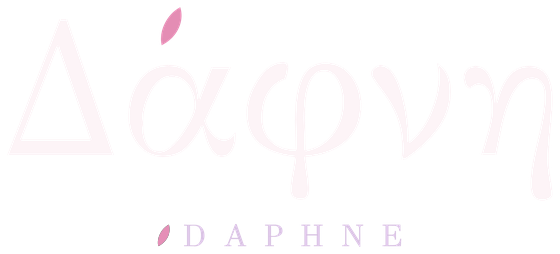
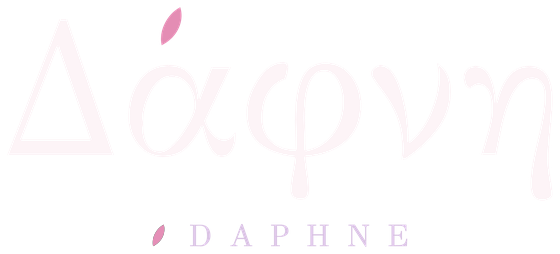
[DOC] Wordmark petal gap: proportional to the letter gaps, not a fixed em
Description:
The petal-to-DAPHNE gap was a fixed 0.43em. The README artwork tracks its
letters much wider than MIKU, so at 0.43em the petal sat closer to D than
the letters sit to each other, the opposite of MIKU.

Solution:
- Define the gap as petal-to-D ink = 1.30 x the mean ink gap between
  DAPHNE's letters (MIKU's 0.43em to the text box is 0.476em to D's ink,
  over a 0.366em mean letter gap). MIKU's CSS is unchanged.
- README wordmarks: everything measured from the artwork, no em; gap
  25.9px (19.96px x 1.30), petal 11.6 x 21.5px, petal + DAPHNE ink
  centred at x 280 (DAPHNE moved 19px).

Note:
Only the README images and the spec change.

Claude-Session: https://claude.ai/code/session_01RaSJHLGsG56MgkYENuf3Kn

Changed region(s): [[0.3339, 0.8819, 0.7286, 0.9921], [0.2732, 0.8819, 0.3036, 0.9646]]

diff --git a/doc/字標與icon規格.md b/doc/字標與icon規格.md
@@ -115,7 +115,9 @@ L351.9 -760.2Z
 | 字距 | **0.32em**（尾端以 `margin-right: −0.32em` 抵消，置中時不偏） |
 | 行高 | 1 |
 | 花瓣 | 同一個花瓣（形狀與 26.1° 同 icon），**高 0.692em**（Georgia 大寫高度）、**寬 0.374em**（花瓣本身的寬高比） |
-| 花瓣與 DAPHNE 間距 | 0.43em |
+| 花瓣與 DAPHNE 間距 | **花瓣到 D 墨跡 = DAPHNE 字母之間平均墨跡間距 × 1.30**（等比例，不用固定 em）。MIKU 以 CSS 寫成 `margin-right: 0.43em`（量到文字框），換算到 D 墨跡為 0.476em，字母平均間距 0.366em，比值 1.30 |
+
+間距跟著字母間距走：字距不同的字標（例如 README 原圖字距較寬）花瓣與字母的相對鬆緊一樣，花瓣永遠比字母之間鬆。
 
 花瓣高度對齊大寫字母高度，沒有照 icon 的比例縮小：照 icon 比例（花瓣高約為 α 高的 0.47 倍）在 12px 的大寫旁只有約 4px。
 
@@ -127,12 +129,11 @@ L351.9 -760.2Z
 | 訊號路徑卡片：DSP 標題後 | 14px | 4.48px | 5.2 × 9.7px | 卡片列文字色 85%（卡片顯示後讀取列文字的實際顏色） |
 | 濾波器設計彈窗：標題開頭 | 14px | 4.48px | 5.2 × 9.7px | 彈窗文字色 85% |
 | MIKU「播放方案」選單：按鈕與選項 | 14px | 4.48px | 5.2 × 9.7px | 按鈕 / 選項文字色 85% |
-| README 字標圖片（`doc/assets/wordmark-*.png`，Δάφνη 下方） | 31.03px（大寫高 21.5px） | 原圖的字距（約 0.6em） | 11.6 × 21.5px，到文字框 13.3px（到 D 墨跡 14.8px） | 原圖的 DAPHNE 顏色；花瓣 `#E58FB7` |
+| README 字標圖片（`doc/assets/wordmark-*.png`，Δάφνη 下方） | 大寫高 21.5px | 原圖的字距（字母平均墨跡間距 19.96px） | 11.6 × 21.5px，到 D 墨跡 25.9px（19.96 × 1.30） | 原圖的 DAPHNE 顏色；花瓣 `#E58FB7` |
 
 - 設定頁標題的 DAPHNE 置中在 Δάφνη 正下方（原圖 x 247 = 56.2px），top 42px。
-- README 字標圖片：花瓣 + DAPHNE 整組置中在 Δάφνη 正下方（560px 寬的圖，中心 x 280），和 MIKU 一樣；DAPHNE 沿用原圖的字，整組往右移 13px 讓出花瓣的位置。
-  - em 由原圖大寫高度決定（H 的 50% 邊緣，21.5px ÷ 0.6929）：原圖的 DAPHNE 不是 Georgia（以 Georgia 字寬擬合六個字母誤差 > 1px），但花瓣在 MIKU 裡就是對齊大寫高度。
-  - 0.43em 量到文字框，和 CSS 一樣：Georgia 的 D 在文字框內左側留白 0.0459em，所以花瓣到 D 墨跡是 0.476em。
+- README 字標圖片：花瓣 + DAPHNE 整組置中在 Δάφνη 正下方（560px 寬的圖，中心 x 280），和 MIKU 一樣；DAPHNE 沿用原圖的字，整組往右移 19px 讓出花瓣的位置；置中以墨跡計算（花瓣左緣到 E 右緣）。
+  - 全部從原圖量（墨跡 50% 邊緣），不換算 em：原圖的 DAPHNE 不是 Georgia（以 Georgia 字寬擬合六個字母誤差 > 1px）。花瓣高 = H 的大寫高；字母間距 = 相鄰字母墨跡之間的距離取平均（20.5、19.4、19.5、20.2、20.2px）。
 - 訊號路徑「解碼」：「解碼」13px `#8A8FA8`，與字標間距 10px，垂直置中。
 - DSP 標題：DSP 後間距 10px（標題本身 8px + 2px）。
 - MIKU「播放方案」選單：以 MIKU 的 `coreLabel('daphne', mark)` 取代名稱「Daphne」，選單按鈕與展開的選項都顯示字標；原生選項仍是文字「Daphne」（輔助技術使用）。選單本身的綠點與箭頭不變。
